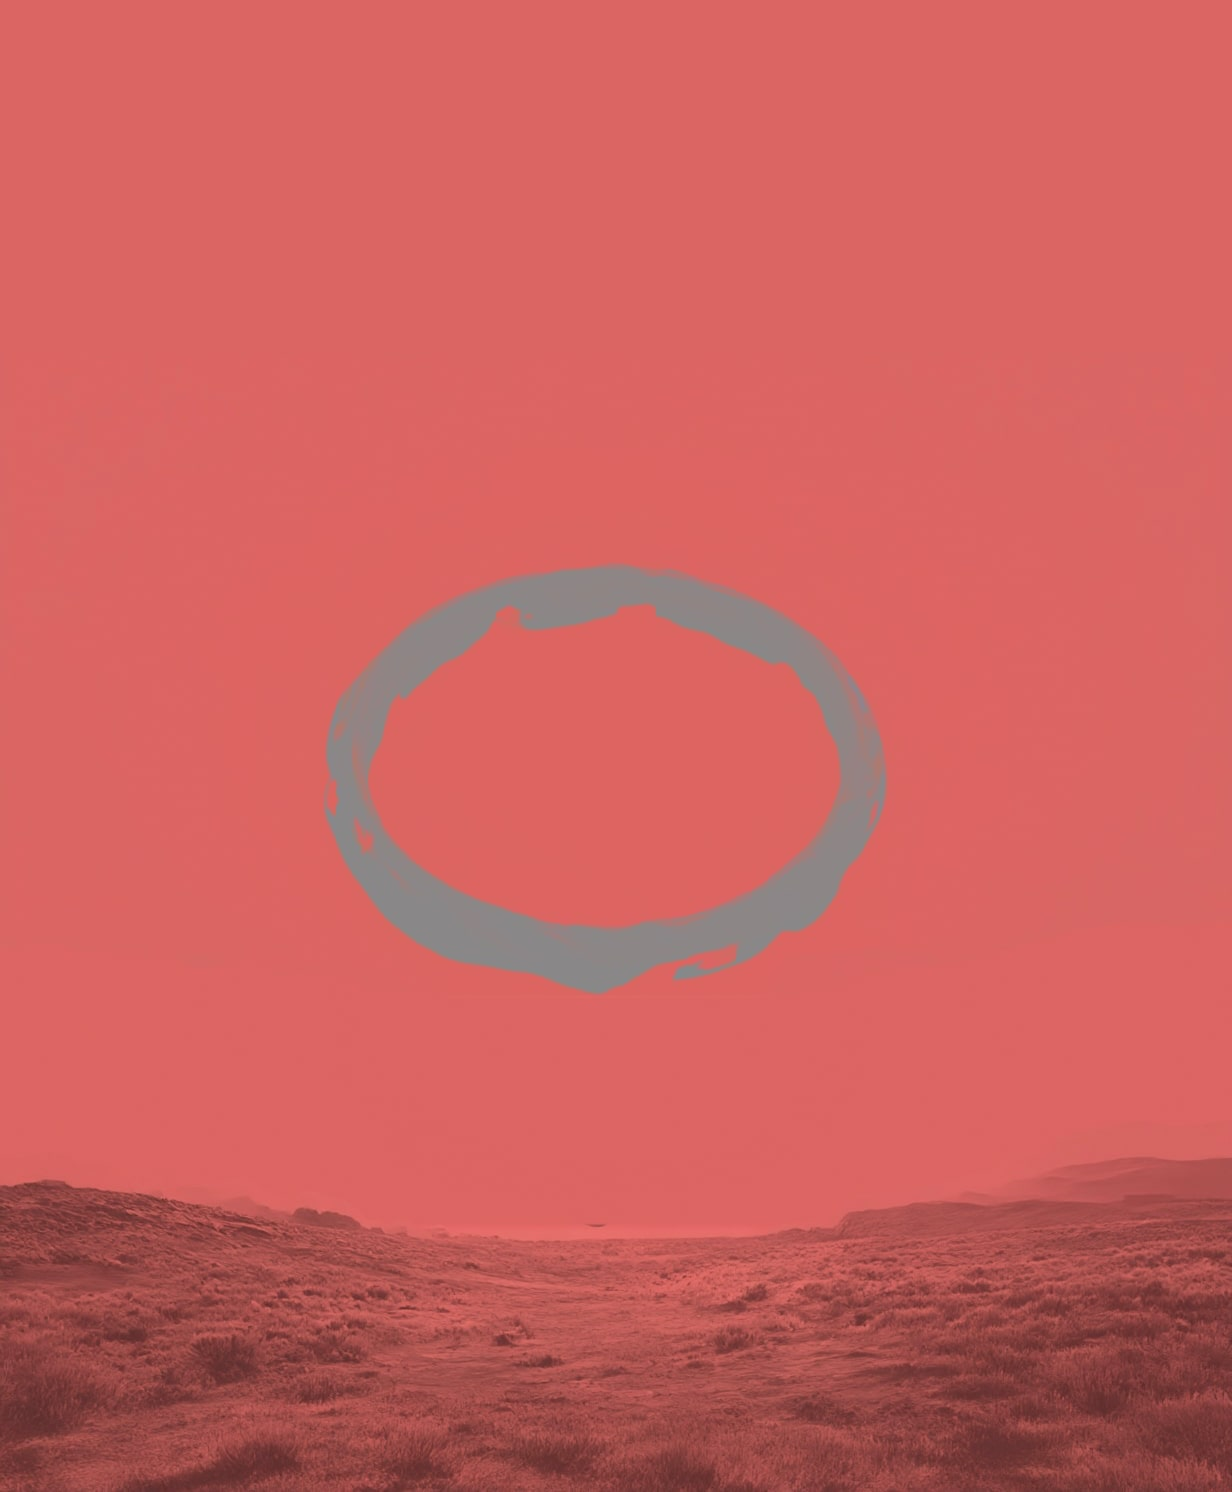
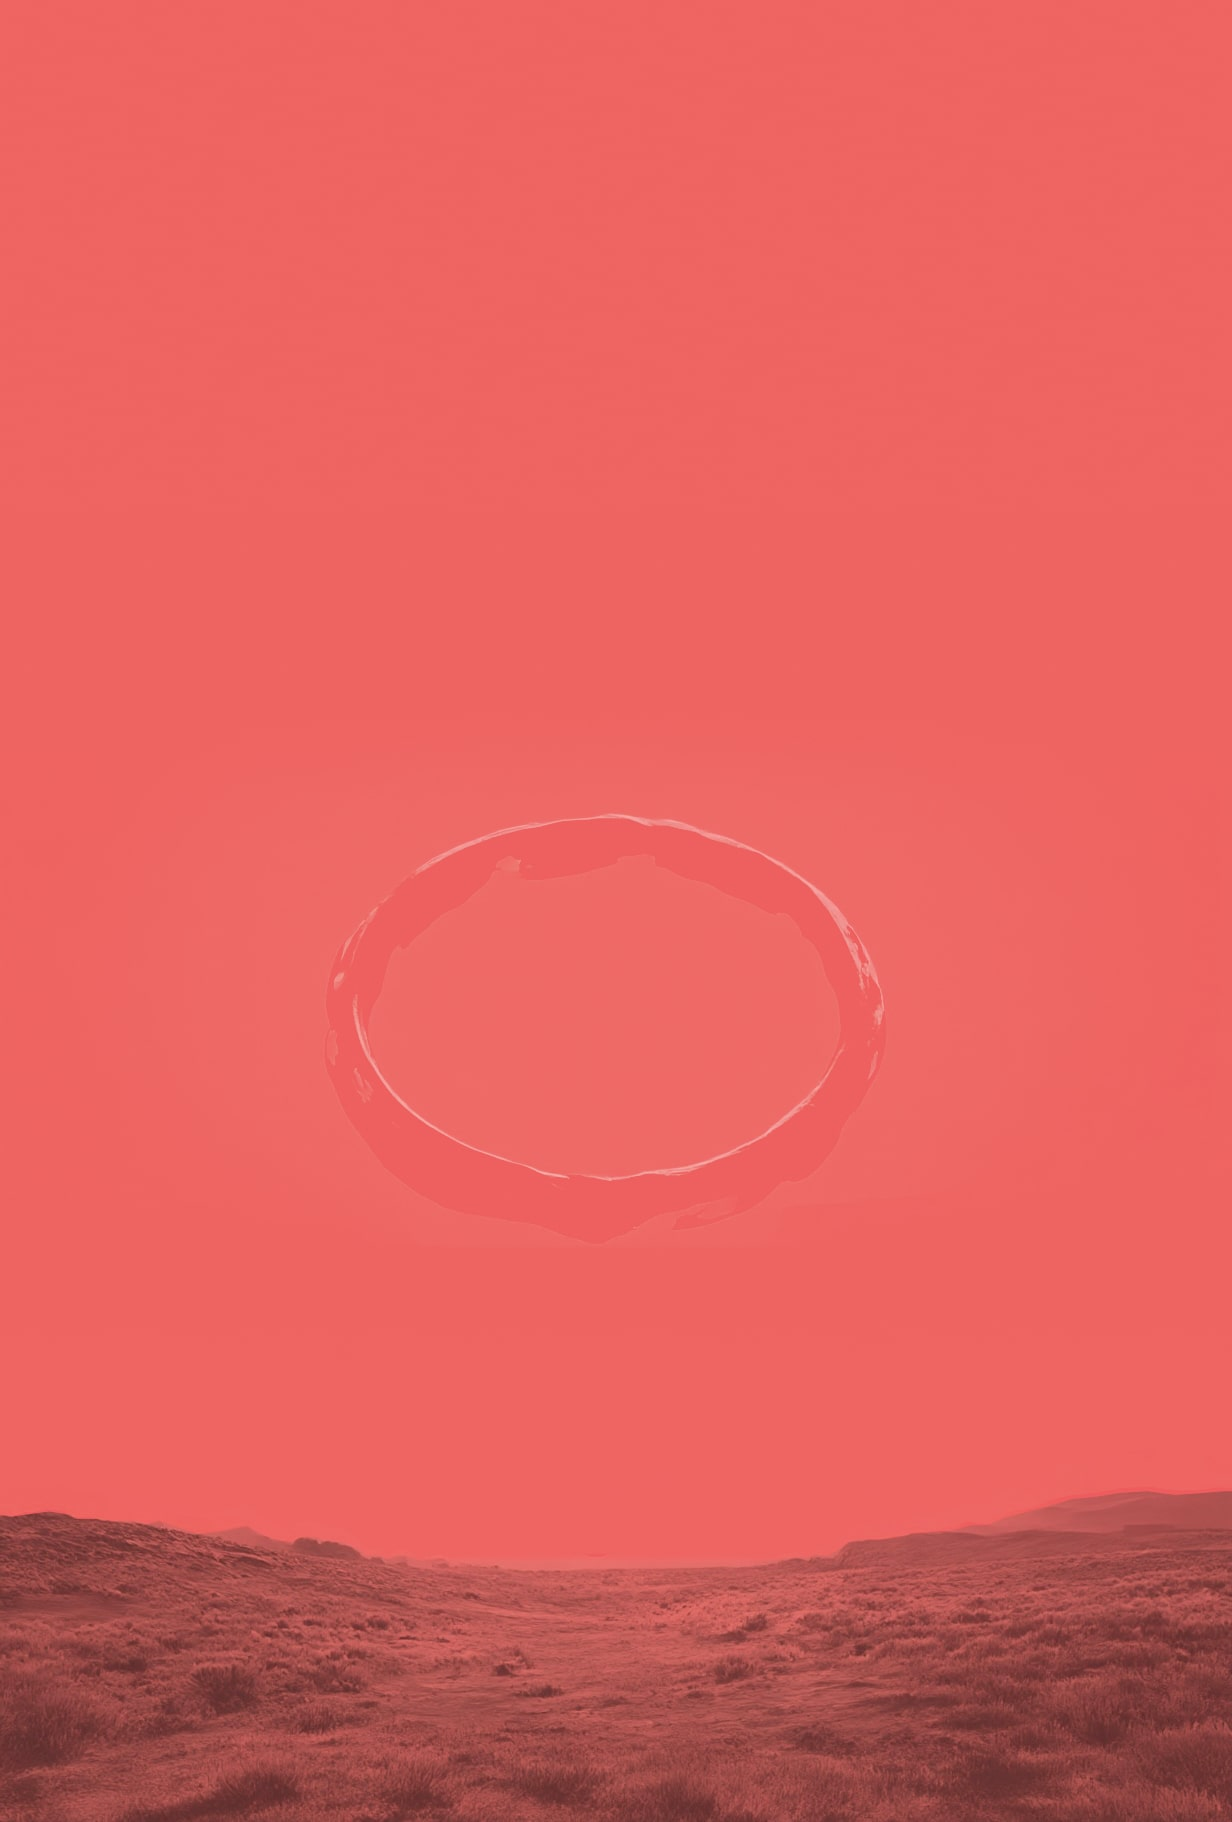
Update Control page mobile styling and reorder projects on homepage

Changed region(s): [[0.0, 0.7708, 1.0, 0.9866], [0.2468, 0.37, 0.7403, 0.6783]]

diff --git a/index.html b/index.html
@@ -96,6 +96,16 @@
               </div>
             </a>
 
+            <a href="detail-loca.html" class="project-card unique-card" data-aos="fade-up" data-aos-delay="400">
+              <div class="project-image">
+                <img src="images/main-loca.jpg" alt="LoCA art marketplace purchase flow on mobile device">
+              </div>
+              <div class="project-info unique-info">
+                <h3 class="unique-title">LoCA 0-1 Art Marketplace</h3>
+                <p class="unique-desc">Product Design</p>
+              </div>
+            </a>
+
             <a href="detail-kikoff.html" class="project-card unique-card" data-aos="fade-up" data-aos-delay="300">
               <div class="project-image">
                 <img src="images/main-kikoff.jpg" alt="Kikoff credit building app user interface design">
@@ -103,16 +113,6 @@
               <div class="project-info unique-info">
                 <h3 class="unique-title">Kikoff</h3>
                 <p class="unique-desc">Product Discovery</p>
-              </div>
-            </a>
-
-            <a href="detail-loca.html" class="project-card unique-card" data-aos="fade-up" data-aos-delay="400">
-              <div class="project-image">
-                <img src="images/main-loca.jpg" alt="LoCA art marketplace purchase flow on mobile device">
-              </div>
-              <div class="project-info unique-info">
-                <h3 class="unique-title">LoCA 0-1 Art Platform</h3>
-                <p class="unique-desc">Product Design</p>
               </div>
             </a>
 

diff --git a/detail-control.css b/detail-control.css
@@ -2,7 +2,7 @@
 
 /* Full-screen background image for control page */
 body.detail-page {
-  background-color: #ED5D5D;
+  background-color: #EE6360;
   height: 100vh;
   overflow: hidden;
   position: relative;
@@ -182,7 +182,10 @@ body.detail-page footer {
     background-image: url('images/detail-control-2.jpg') !important;
     background-size: cover !important;
     background-position: center center !important;
+    background-attachment: fixed !important;
+    width: 100vw !important;
+    height: 100vh !important;
     opacity: 0.9 !important;
-    filter: saturate(1.2) !important;
+    filter: saturate(1) !important;
   }
 }

diff --git a/detail-loca.html b/detail-loca.html
@@ -55,7 +55,7 @@
 
     <main class="main-content">
       <section class="hero">
-        <h1 class="hero-title">LoCA 0-1 Art Platform</h1>
+        <h1 class="hero-title">LoCA 0-1 Art Marketplace</h1>
       </section>
 
       <section class="detail-two-col-section">
